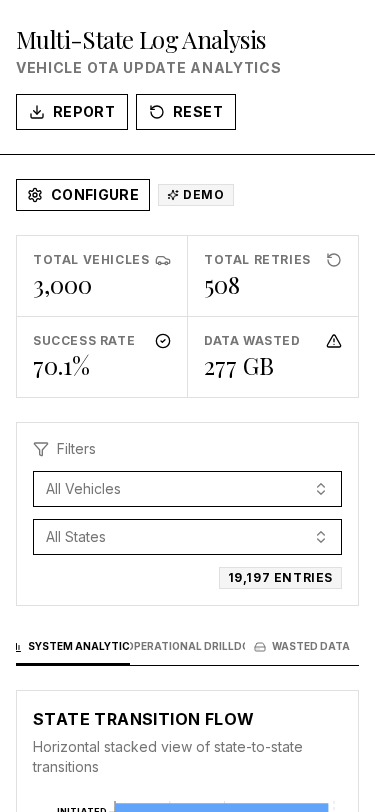
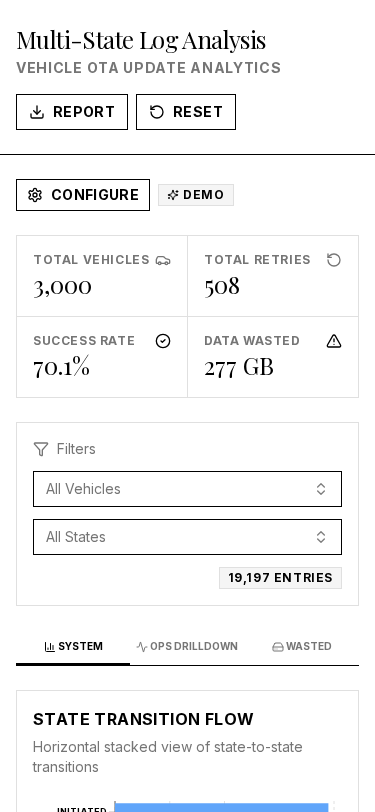
fix: use shortened tab labels on mobile to prevent overlap
Mobile: 'System', 'Ops Drilldown', 'Wasted'
Desktop: full labels unchanged via responsive hidden/inline

Changed region(s): [[0.0587, 0.7697, 0.528, 0.8005], [0.6747, 0.7697, 0.9387, 0.8005], [0.5573, 0.7697, 0.6453, 0.8005]]

diff --git a/src/app/page.tsx b/src/app/page.tsx
@@ -891,17 +891,20 @@ export default function Home() {
           {/* Tabs */}
           <Tabs defaultValue="system" className="space-y-4">
             <TabsList className="w-full grid grid-cols-3">
-              <TabsTrigger value="system" className="gap-1.5 justify-center">
+              <TabsTrigger value="system" className="gap-0.5 sm:gap-1.5 justify-center">
                 <BarChart3 className="h-3.5 w-3.5" />
-                System Analytics
+                <span className="hidden sm:inline">System Analytics</span>
+                <span className="sm:hidden">System</span>
               </TabsTrigger>
-              <TabsTrigger value="operational" className="gap-1.5 justify-center">
+              <TabsTrigger value="operational" className="gap-0.5 sm:gap-1.5 justify-center">
                 <Activity className="h-3.5 w-3.5" />
-                Operational Drilldown
+                <span className="hidden sm:inline">Operational Drilldown</span>
+                <span className="sm:hidden">Ops Drilldown</span>
               </TabsTrigger>
-              <TabsTrigger value="wasted" className="gap-1.5 justify-center">
+              <TabsTrigger value="wasted" className="gap-0.5 sm:gap-1.5 justify-center">
                 <HardDrive className="h-3.5 w-3.5" />
-                Wasted Data
+                <span className="hidden sm:inline">Wasted Data</span>
+                <span className="sm:hidden">Wasted</span>
               </TabsTrigger>
             </TabsList>
 
